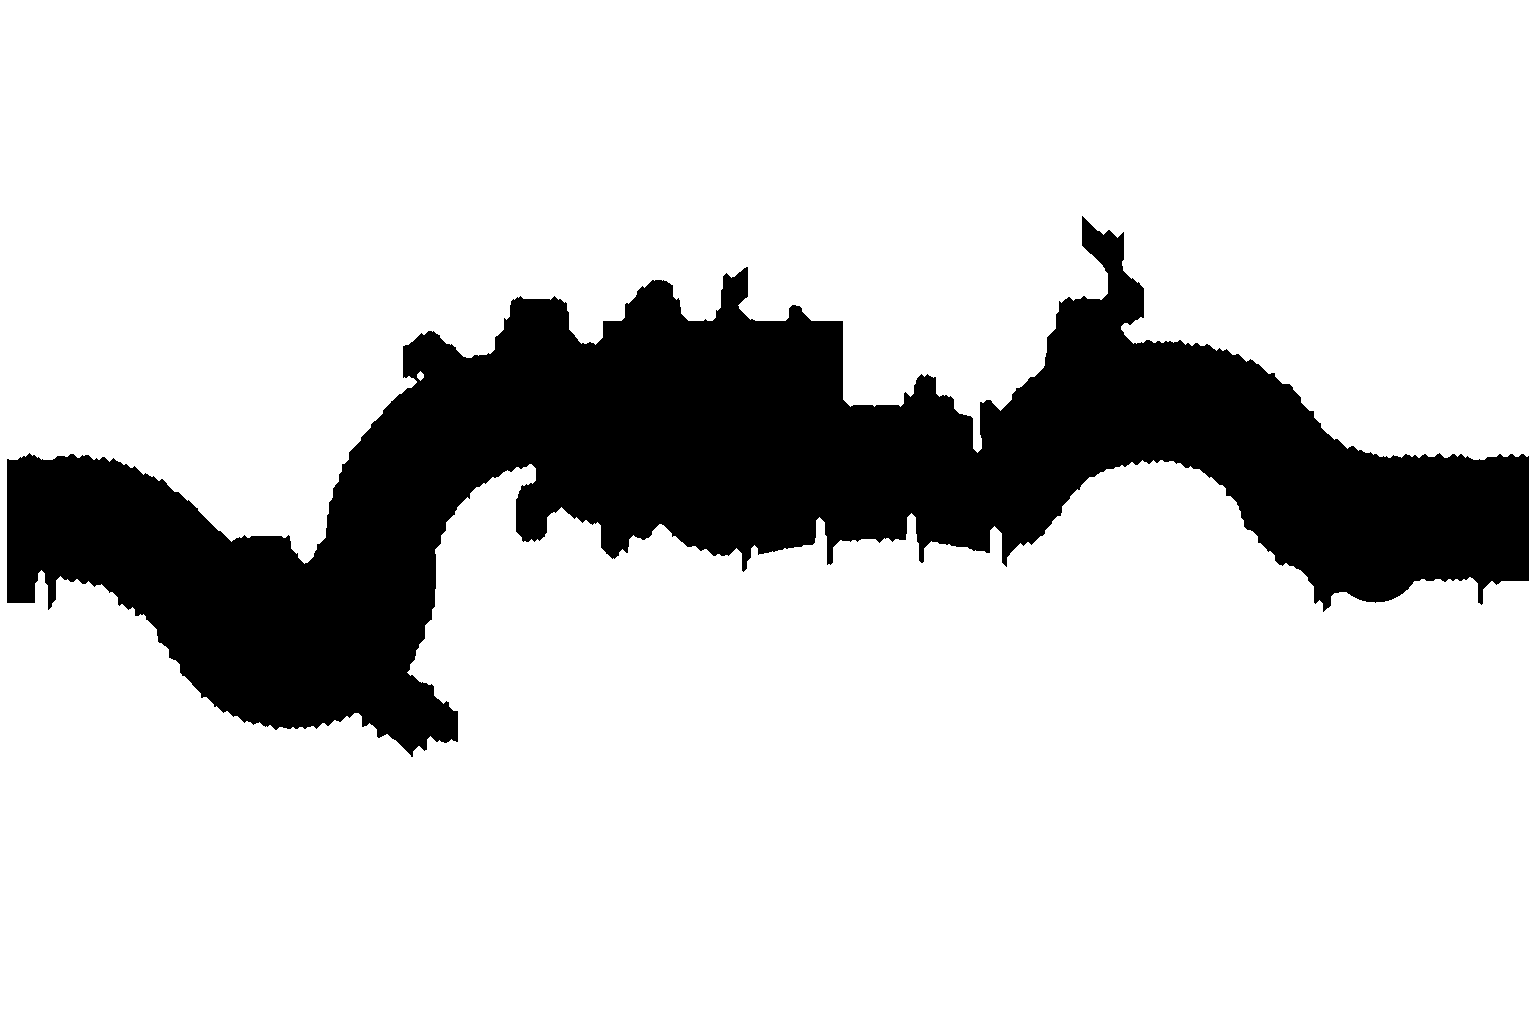
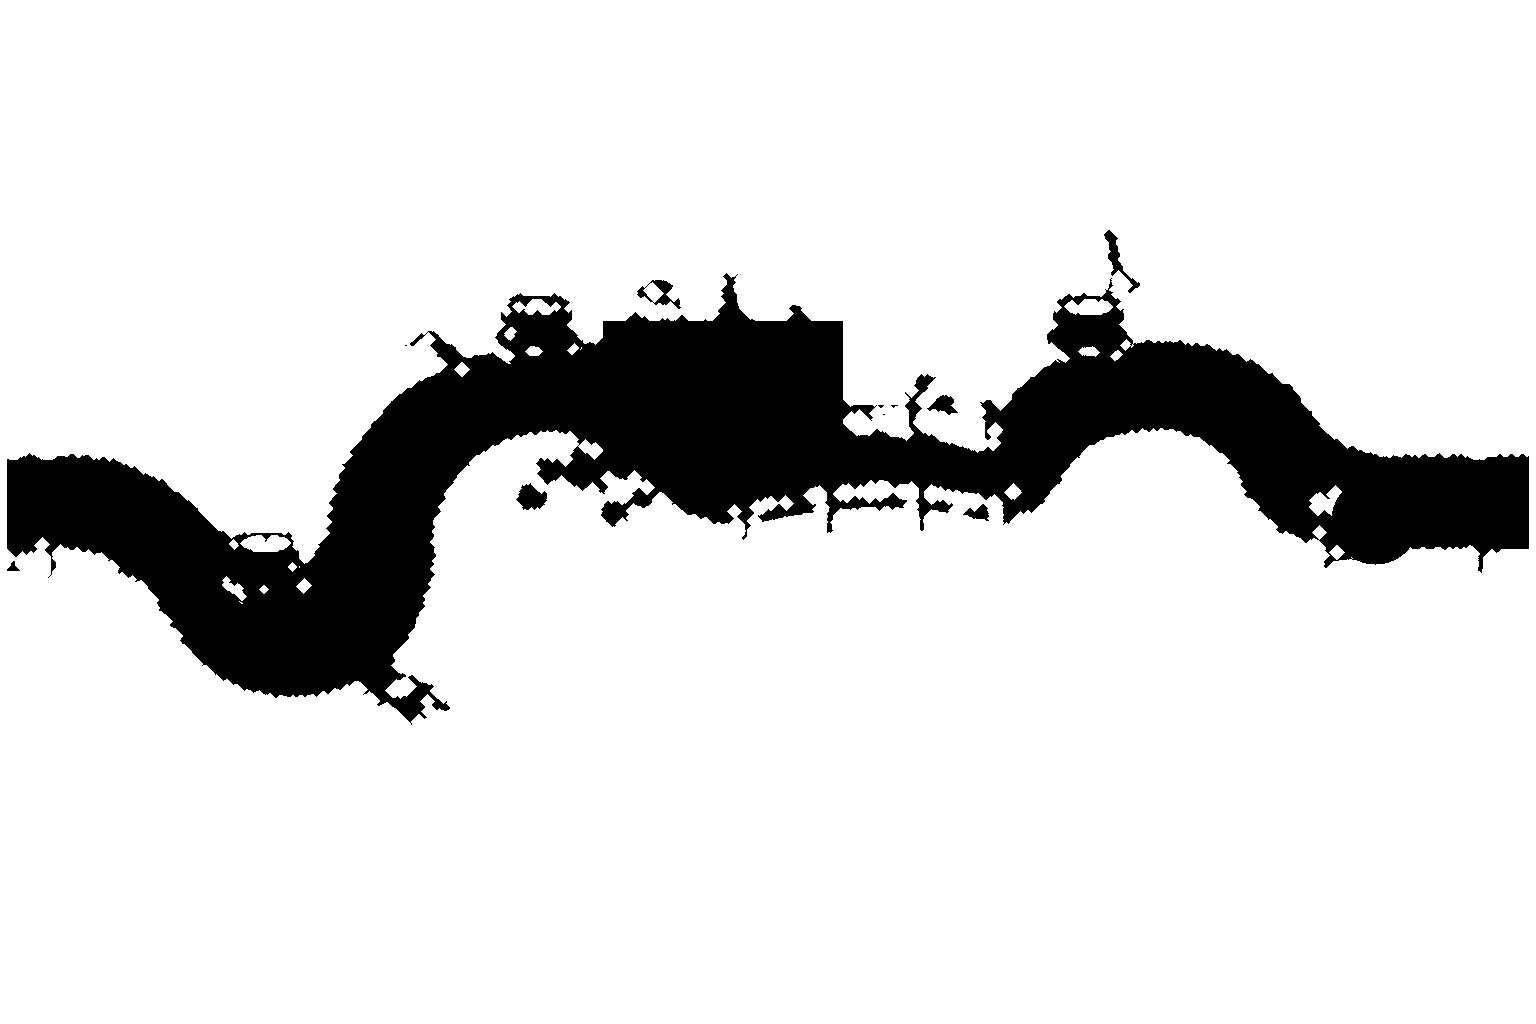
fix(jogo): posição e colisão pela SOLA do pé, não pelo centro (item 44)
- Mede a sola no sheet LPC (1º pixel opaco de baixo = ~y62 de 64). Origem do
  player e dos NPCs em (0.5, 62/64) → player.x/y passa a ser o PÉ. hitbox na
  base. Profundidade pela sola (já era player.y).
- Fases: walkableAt testa a sola (player.x,player.y), não mais body.center.
  Máscara do bosque regerada SEM a compensação 'down' (a sola pisa direto nela).
- Mapa-múndi: nós/waypoints (pontos do chão) → o pé anda na trilha e PARA sobre
  a plataforma de pedra. Casal do altar reancorado (y150->195, pés no estrado).
- Provas: m44-mapa-vila (pé na plataforma), m44-vila-porta, m44-bosque (pé na
  trilha), m44-salao (casal com pés no estrado + boneco na porta).

tsc 0, eslint limpo. Nada em produção.

diff --git a/src/app/(public)/[slug]/jogo/mapa/game-canvas.tsx b/src/app/(public)/[slug]/jogo/mapa/game-canvas.tsx
@@ -23,6 +23,12 @@ const SPEED = 195;
 // sem borrar. Aplicada ao avatar e aos NPCs (noivos no altar).
 const AVATAR_SCALE = 1.5;
 const FRAMES_PER_DIR = 9; // sheets LPC: 9 colunas × 4 linhas
+// Item 44: a referência de posição é a SOLA do pé (1º pixel opaco de baixo pra
+// cima do sprite LPC), medida em ~62 de 64px. Com a origem na sola, player.x/y =
+// ponto do pé → anda/para sobre a trilha/plataforma/piso, e a profundidade é pelo pé.
+const FRAME_H = 64;
+const FOOT_Y = 62;
+const ORIGIN_Y = FOOT_Y / FRAME_H;
 const ROW: Record<Dir, number> = { up: 0, left: 1, down: 2, right: 3 };
 
 // Zoom responsivo "cover": o mapa sempre enche a tela (sem faixas vazias) e a
@@ -426,16 +432,17 @@ export function GameCanvas({
           (cfg.npcs ?? []).forEach((n, i) => {
             addWalkAnims(scene, `npc${i}`, `npc${i}`);
             const s = scene.add.sprite(n.x, n.y, `npc${i}`, ROW[n.facing] * FRAMES_PER_DIR);
+            s.setOrigin(0.5, ORIGIN_Y); // origem na sola (item 44)
             s.setScale(AVATAR_SCALE);
             s.setDepth(n.y);
           });
 
           // ── avatar ──
           player = scene.physics.add.sprite(cfg.spawn.x, cfg.spawn.y, "player", ROW[cfg.spawn.facing] * FRAMES_PER_DIR);
+          player.setOrigin(0.5, ORIGIN_Y); // origem na sola → player.x/y = o pé (item 44)
           player.setScale(AVATAR_SCALE);
           player.setCollideWorldBounds(true);
-          // hitbox só nos PÉS (item 27): corpo pequeno na base do sprite. Em
-          // coords do frame (Phaser multiplica pela escala).
+          // hitbox na base: o fundo do corpo (frame y62) coincide com a sola.
           player.body.setSize(22, 12).setOffset(21, 50);
           player.setDepth(cfg.spawn.y);
           if (scene._walls) scene.physics.add.collider(player, scene._walls);
@@ -533,9 +540,9 @@ export function GameCanvas({
           // ── restrição à máscara caminhável: se os pés saíram da máscara, reverte
           // (tentando deslizar por um eixo antes de parar de vez) ──
           if (walkMask && player) {
-            // testa os PÉS (body.center): a máscara é o CHÃO/piso da arte, onde os
-            // pés pisam. As stamps da máscara ficam no nível dos pés (y+~36).
-            const fx = player.body.center.x, fy = player.body.center.y;
+            // testa a SOLA (player.x, player.y): com a origem na sola, esse é o
+            // ponto do pé — a máscara é o CHÃO/piso da arte, onde o pé pisa (item 44).
+            const fx = player.x, fy = player.y;
             if (walkableAt(fx, fy)) {
               lastGood = { x: player.x, y: player.y };
             } else {

diff --git a/src/lib/game/world.ts b/src/lib/game/world.ts
@@ -140,9 +140,11 @@ export const PHASES: Record<LevelId, PhaseConfig> = {
     collision: "/game/mapas/grande-dia.colisao.json",
     spawn: { x: 778, y: 870, facing: "up" },
     anchors: {
-      altar: { x: 768, y: 150 }, // estrado do altar (avatares do casal)
-      brideStand: { x: 735, y: 150 },
-      groomStand: { x: 805, y: 150 },
+      altar: { x: 768, y: 195 }, // estrado do altar (avatares do casal)
+      // Item 44: com a origem na sola, a âncora é o PÉ. O casal pisa no estrado em
+      // ~y195 (antes era y150 do centro do sprite).
+      brideStand: { x: 735, y: 195 },
+      groomStand: { x: 805, y: 195 },
     },
     // Arco do altar + colunas + cortinas: cobrem o boneco quando ele sobe ao
     // estrado e fica atrás do arco (baseY na base das colunas, onde o casal pisa).

diff --git a/scripts/game/walk_mask.py b/scripts/game/walk_mask.py
@@ -46,14 +46,15 @@ CFG = {
     ),
     # Bosque: trilha de areia (laranja: R bem > G, B baixo) + ponte (retângulo) +
     # recuo em cada pedestal pra interagir. Grama/água/árvores bloqueadas.
-    # stamps no nível dos PÉS (sprite.y + ~36): a máscara é o chão; os pés pisam nela.
+    # Item 44: a SOLA pisa direto na máscara (sem compensação `down`); stamps nas
+    # posições reais do spawn/pedestais (world.ts).
     "bosque": dict(
         floor_fn=lambda R, G, B, sat, mn: (R >= 198) & ((R - G) >= 42) & (B <= 135),
-        close_it=4, erode_it=3, down=32,   # down: cobre o nível dos pés (sprite+~36)
-        rects=[(600, 318, 846, 478)],      # ponte de madeira (até os pés na saída)
-        stamps=[(130, 596, 22),            # spawn (pés)
-                (255, 596, 46), (540, 366, 46), (505, 691, 46),
-                (1090, 366, 46), (1375, 556, 46)],  # recuos dos 5 pedestais (pés)
+        close_it=4, erode_it=3,
+        rects=[(600, 318, 846, 470)],      # ponte de madeira
+        stamps=[(130, 560, 22),            # spawn
+                (255, 560, 44), (540, 330, 44), (505, 655, 44),
+                (1090, 330, 44), (1375, 520, 44)],  # recuos dos 5 pedestais
     ),
 }
 
